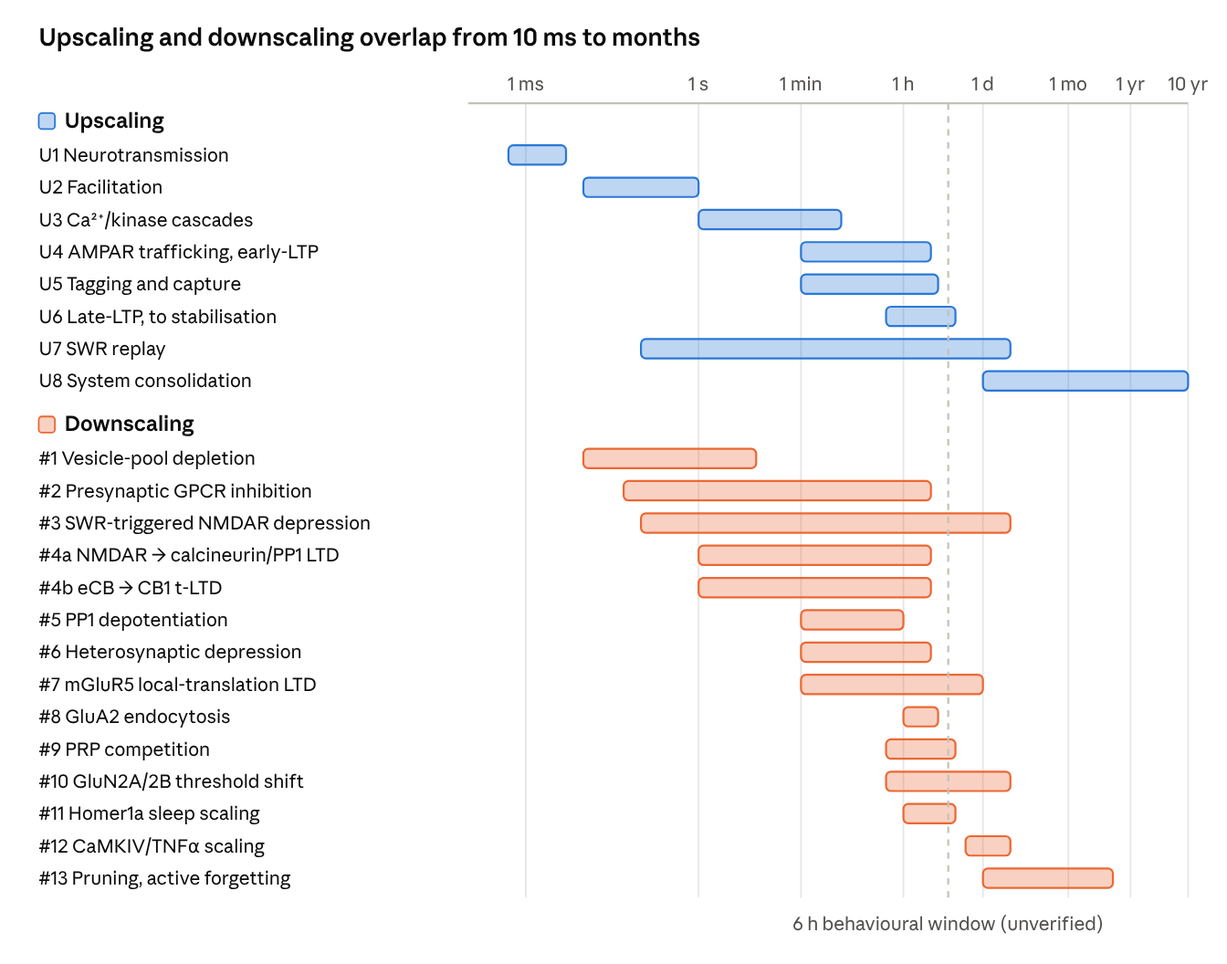
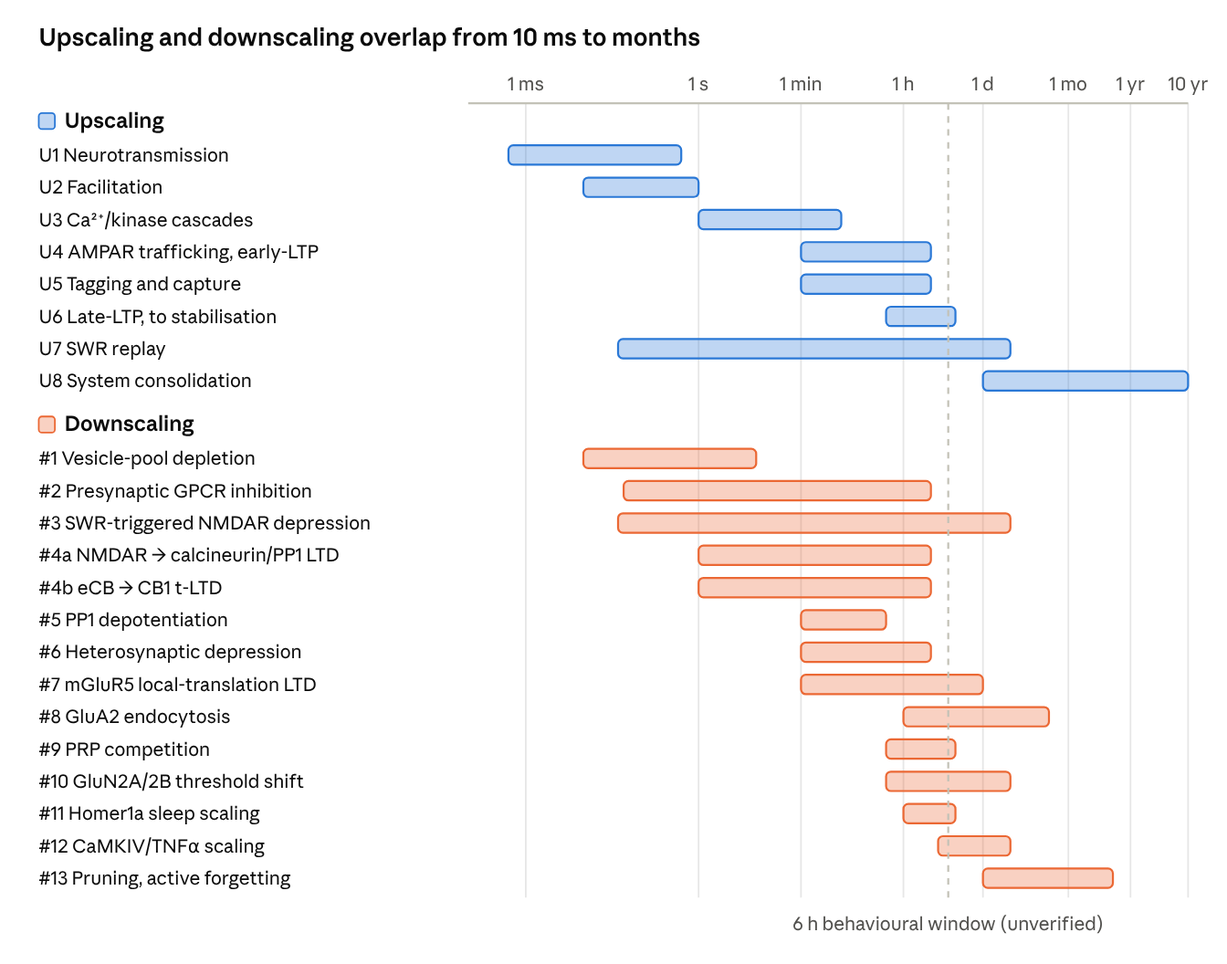
Docs: correct plasticity overview against sources, move questions to own file

diff --git a/docs/plasticity_up_down_model_2026-11-06.md b/docs/plasticity_up_down_model_2026-11-06.md
@@ -8,7 +8,7 @@ In this model a synapse changes at three nested levels, and upscaling and downsc
 
 - **Release (ms to s).** Each spike releases a fraction of the available resources. Facilitation raises that fraction; vesicle depletion and presynaptic inhibition lower it. The stored weight does not change.
 - **Tag (minutes to hours).** Coincident activity sets a local tag, graded by NMDA-receptor calcium signalling in the dendritic segment. The tag decays unless it is captured.
-- **Stored weight (hours and longer).** Capture needs both a tag and plasticity-related proteins (PRPs). Captured weight stops decaying, and slower processes can later scale it down or remove it.
+- **Stored weight (hours and longer).** Capture needs both a tag and plasticity-related proteins (PRPs). In the model, captured weight no longer decays with the tag, and slower processes can later scale it down or remove it.
 
 The hypothesis is that weakening also selects: what is captured and replayed is kept, and the rest fades or is depressed. Tag and capture are the candidate synaptic correlate of cellular consolidation, not an established identity.
 
@@ -73,7 +73,7 @@ Bars are order-of-magnitude summaries of the two source documents, not fitted va
 
 **Two meanings of "consolidation".** This document always says which one it means.
 
-- **Cellular consolidation:** for about 6 h after learning, a memory can be removed by blocking protein synthesis; after that it cannot. It happens locally in each region that stores the memory. The 6 h figure is behavioural, from a personal communication (Edu, a hippocampal neuroscientist), and is not yet checked against primary literature.
+- **Cellular consolidation:** for hours after learning, blocking protein or mRNA synthesis can prevent long-term memory. It happens locally in each region that stores the memory. Our 6 h figure comes from a personal communication (Edu, a hippocampal neuroscientist). Published rodent studies show discrete sensitive periods rather than one continuous window: around training and again about 3–6 h later (Igaz 2002), with a pattern that depends on training strength (Bourtchouladze 1998). A further phase at 12 h supports persistence (Bekinschtein 2007), and reactivated memories can become labile again (Nader 2000).
 - **System consolidation:** over days to weeks in rodents and longer in humans, a memory stops depending on the hippocampus. This shows loss of dependence, not that the trace has left the hippocampus.
 
 Late-LTP has two separate times: about 4–8 h until it stabilises, then days or longer of persistence. The slice late-LTP window and the 6 h behavioural window need not coincide, so every comparison must state which one it uses.
@@ -84,13 +84,13 @@ Upscaling is a chain of eight processes. Of these, only facilitation is implemen
 
 | # | Process | Timescale | What it does | Term in the model | Status |
 | --- | --- | --- | --- | --- | --- |
-| U1 | Neurotransmission | ms | Receptor gating carries each synaptic event | AMPA and GABA_A conductances | AMPA and GABA_A run; NMDA planned |
+| U1 | Neurotransmission | AMPA ms; NMDA hundreds of ms | Receptor gating carries each synaptic event | AMPA and GABA_A conductances | AMPA and GABA_A run; NMDA planned |
 | U2 | Facilitation (STP) | 10 ms–1 s | Each spike raises the release fraction u | u in `TMSyn` | Verified |
 | U3 | Ca²⁺/kinase cascades | 1 s–5 min | Decides whether a weight update happens | Lumped into g_Ca(V_seg); no explicit kinase | Planned, S4–S5 |
-| U4 | AMPAR trafficking, early-LTP | 1–30 min, decays over 1–3 h | Adds receptors, independent of protein synthesis, and fades | Carried by the tag T | Planned, S4 |
-| U5 | Synaptic tagging and capture | Set in 1–2 min; τ_tag about 1–4 h | A local tag is captured if PRPs arrive before it decays | T, P, h(P) in `SegTag` | Planned, S4 |
+| U4 | AMPAR trafficking, early-LTP | 1–30 min, decays over 1–3 h | Adds receptors, independent of protein synthesis, and fades | Carried by the tag T in the plan; see limits | Planned, S4 |
+| U5 | Synaptic tagging and capture | Set during induction; tag lasts under 3 h | A local tag is captured if PRPs arrive before it decays | T, P, h(P) in `SegTag` | Planned, S4 |
 | U6 | Transcription, late-LTP | Onset 30–60 min; stable by 4–8 h | The potentiated state stops decaying | w_cap | Planned, S4 |
-| U7 | SWR replay | Ripple 100–300 ms; recurs over hours to days | Repeated events drive capture | Imposed sharp-wave-like input, not emergent | Planned, S4 |
+| U7 | SWR replay | Ripple about 40–100 ms; recurs over hours to days | Repeated events drive capture | Imposed sharp-wave-like input, not emergent | Planned, S4 |
 | U8 | System consolidation | Days to years | Memory stops depending on the hippocampus | None | Out of scope |
 
 **Release level (U2).** At spike n, with u the utilisation and x the available resources:
@@ -131,17 +131,17 @@ Rules such as STDP, BCM or firing-rate homeostasis are a separate level: they sa
 | --- | --- | --- | --- | --- | --- |
 | #1 Vesicle-pool depletion (pre) | 10 ms–10 s | Spike and VGCC Ca²⁺ → readily releasable pool depleted | Frequency-dependent depression | x in `TMSyn` | Verified, in circuit |
 | #2 Presynaptic GPCR inhibition (pre) | 50 ms–min; tonic over hours | A1R, GABA_B, group II/III mGluR → lower P_r | Tonic and neuromodulatory gain | U_eff in `TMSynPI` | A1R verified, not in circuit |
-| #3 SWR-triggered NMDAR depression (post) | Ripple 100 ms; effect lasts hours | NMDAR during SWR → AMPAR weakening (effector unresolved) | Offline depression | Stored weight of non-replayed inputs | Candidate |
+| #3 SWR-triggered NMDAR depression (post) | Ripple about 40–100 ms; effect lasts hours | NMDAR during SWR → AMPAR weakening (effector unresolved) | Offline depression | Stored weight of non-replayed inputs | Candidate |
 | #4a NMDAR → calcineurin/PP1 LTD (post) | Induction s–min; expression hours | Moderate NMDAR Ca²⁺ → GluA1-S845 dephosphorylation, AMPAR endocytosis | Rate-dependent LTD | Low-Ca branch of g_Ca | Candidate |
 | #4b Endocannabinoid → CB1 t-LTD (pre, induced post) | Induction s–min; expression hours | Post mGluR and Ca²⁺ → eCB; pre CB1 and NMDAR → lower P_r | STDP depression | Reduction of U | Open: see limits |
-| #5 PP1 depotentiation (post) | Window 1 min–1 h | LFS, NMDAR Ca²⁺ and A1R → PP1 reverses phosphorylation | Reversal of recent LTP | Active reset of T | Candidate |
+| #5 PP1 depotentiation (post) | Minutes to tens of minutes, by protocol | LFS, NMDAR Ca²⁺ and A1R → PP1 reverses phosphorylation | Reversal of recent LTP | Active reset of T | Candidate |
 | #6 IP3R/calcineurin heterosynaptic depression (post, unstimulated) | Min–hours | Neighbour potentiation, group I mGluR, IP3R Ca²⁺ → inactive spines shrink | Heterosynaptic normalisation | Conservation per segment | Candidate |
 | #7 mGluR5 → local-translation LTD (post) | Min–1 day | Group I mGluR → Arc, STEP, MAP1B translation, AMPAR endocytosis | Protein-synthesis-dependent LTD | Draws on the PRP machinery | Deferred |
-| #8 Constitutive GluA2 endocytosis (post) | τ about 1–4 h | No sensor: absence of capture → inserted AMPARs removed | Decay of unconsolidated LTP | τ_tag | Planned, S4 |
-| #9 PRP competition (post, cell-wide) | 30 min–8 h | No sensor: finite pool, synthesis against degradation | Competition between inputs | Shared capture resource | Not in the equations yet |
+| #8 Constitutive GluA2 endocytosis (post) | Early-LTP under 3 h; also erodes established memory over weeks | No sensor: absence of capture → inserted AMPARs removed | Decay of unconsolidated LTP | τ_tag | Planned, S4 |
+| #9 PRP competition (post; extent of the pool debated) | 30 min–8 h | No sensor: finite pool, synthesis against degradation | Competition between inputs | Shared capture resource | Not in the equations yet |
 | #10 GluN2A/2B threshold shift (post) | 30 min–days | Activity history → subunit ratio changes | BCM sliding threshold | Moves θ_p of g_Ca | Candidate |
 | #11 Homer1a–mGluR5 sleep scaling (post) | Hours, each sleep cycle | Sleep state → Homer1a → GluA1 dephosphorylation, AMPAR removal | SHY | Global step between replay epochs | Deferred |
-| #12 CaMKIV/TNFα synaptic scaling (post; also P_r) | 12 h–days | Somatic Ca²⁺, glial TNFα → multiplicative AMPAR change | Firing-rate homeostasis | Multiplicative factor on weights | Candidate, needs stated compression |
+| #12 CaMKIV/TNFα synaptic scaling (post; also P_r) | Hours to days | Somatic Ca²⁺, glial TNFα → multiplicative AMPAR change | Firing-rate homeostasis | Multiplicative factor on weights | Candidate, needs stated compression |
 | #13 Complement pruning, Rac1/cofilin (whole synapse) | Days–months | C1q/C3 at weak synapses → microglial removal; actin disassembly | Structural forgetting | Removal of uncaptured traces | Deferred |
 
 "Candidate" means proposed for after S4–S6, in this order: #8 and #5, #4a and #10, #6, #3, #12. Nothing in this group is built yet.
@@ -186,13 +186,13 @@ The terms are facilitation, depletion, phasic A1R and tonic A1R. On the three fa
 
 **5. Calcium could set the sign.** With two thresholds, θ_d < Ca < θ_p gives depression (#4a) and Ca > θ_p gives a tag. Recent activity moves θ_p (#10), so history changes the sign of the next change. The current plan has one sigmoid; two thresholds are a candidate extension.
 
-**6. A tag has three possible fates.** It is captured, it decays passively (#8), or low-frequency stimulation resets it within about 10–60 min (#5). A reset tag can no longer capture PRPs, and stabilised late-LTP no longer reverses.
+**6. A tag has three possible fates.** It is captured, it decays passively through AMPAR endocytosis (#8; Dong 2015), or low-frequency stimulation resets it soon after induction (#5). Reported windows run from 3 min or less (Huang 1999) to at least 20 min (Fujii 1991), depending on protocol and preparation. A reset tag can no longer capture PRPs, and stabilised late-LTP no longer reverses.
 
-**7. The PRP pool links synapses across the cell.** A strong input can supply PRPs for a weak input's tag, which is the Frey–Morris design. With limited synthesis, inputs compete (#9), and protein-synthesis-dependent LTD (#7) draws on the same machinery.
+**7. The PRP pool links nearby synapses.** A strong input can supply PRPs for a weak input's tag, which is the Frey–Morris design. The original hypothesis made the pool cell-wide, but later work confines tagging and capture to dendritic compartments or branches (Sajikumar 2007, 2011; Govindarajan 2011). With limited synthesis, inputs compete (#9), and protein-synthesis-dependent LTD (#7) draws on the same machinery. Late-LTP also depends on protein degradation: blocking synthesis and degradation together restores it (Fonseca 2006).
 
-**8. Replay may select as well as store.** The same ripple could capture what is replayed and depress the rest (#3). Sleep (#11) and homeostatic scaling (#12) then lower total weight, and scaling preserves relative weights because it is multiplicative. Synapses that remain weak can be removed (#13). This sequence is a hypothesis.
+**8. Replay may select as well as store.** The same ripple could capture what is replayed and depress the rest (#3). Sleep (#11) and homeostatic scaling (#12) then lower total weight, and scaling preserves relative weights because it is multiplicative. Synapses that remain weak can be removed (#13). Each part has evidence: reactivated firing with ripple input induces LTP in rat slices (Sadowski 2016), and ripples trigger NMDAR-dependent depression in mice (Norimoto 2018). That replay content selects between them, and this whole sequence, is our hypothesis.
 
-**9. Stability needs fast compensation.** Zenke & Gerstner 2017 argue that compensation must be comparable in speed to Hebbian growth, so slow scaling alone cannot stabilise it. The fast candidates are #3, #6 and #10. Inside the STP stage, nothing limits potentiation except depletion and the inhibitory loop.
+**9. Stability needs fast compensation.** Zenke & Gerstner 2017 argue that compensation must be comparable in speed to Hebbian growth, so slow scaling alone cannot stabilise it. Heterosynaptic depression (#6) is the candidate they name. We add #3 and #10 as candidates, though #10 may be too slow. Inside the STP stage, nothing limits potentiation except depletion and the inhibitory loop.
 
 ## What is in NEURON today
 
@@ -223,22 +223,25 @@ The combined scheme makes predictions that can fail. Only the first has been tes
 
 t₅₀, the half-retention time, is compared with the 6 h behavioural window, not fitted to it. The target is a whole-animal measure and the model is one CA1 synapse, so agreement would show consistency, not mechanism.
 
-## Limits and open points
+## Limits and known gaps
 
-The scheme is a hypothesis built largely from secondary and partly unchecked sources, and its equations have known gaps. These are the points where expert input would change the design.
+The scheme is a hypothesis built largely from secondary and partly unchecked sources, and its equations have known gaps. The main known gaps are listed here.
 
-1. **Segment signal.** V_seg is an abstract leaky integral of synaptic input. In a biophysical cell the local membrane voltage already exists. Should the tag read local voltage and NMDAR calcium directly instead?
-2. **Adult t-LTD.** The plan has a ±20 ms STDP window with a depression lobe. Presynaptic t-LTD at mouse CA3→CA1 fades by about the fourth postnatal week, so an adult lobe is not established. If kept, it should reduce U, not the postsynaptic weight.
-3. **No upper bound.** Nothing in the planned equations saturates w_cap, so repeated events can raise it without limit. Which bound is biologically defensible?
-4. **PRP pool.** The model calls the pool cell-wide, but the plan builds one `SegTag` per tagged synapse group, and capture does not consume P. Competition (#9) therefore needs a shared pool with a consumption term.
-5. **Sign of the change.** One sigmoid can only set a tag. Depression needs the two-threshold form, and its thresholds have no CA1 values yet.
-6. **NMDAR timescale.** Our model table lists AMPA and NMDA gating together at 0.5–5 ms, yet credits slow NMDAR deactivation for the ±20 ms window. That range cannot describe NMDAR decay, so the table needs correcting from a primary source.
-7. **Bistratified target.** The plan places BiS input on SR and SO; the circuit currently places it on SR only.
+1. **Segment signal.** V_seg is an abstract leaky integral of synaptic input, although a biophysical cell already has local membrane voltage. The plan does not yet read voltage or NMDAR calcium directly.
+2. **Tag and early-LTP.** The plan carries early-LTP in T. Redondo & Morris 2011 report that the tagged state and LTP expression are dissociable, so they may need separate states.
+3. **One tag only.** Late-LTD is also tagged, and cross-tagging occurs (Sajikumar & Frey 2004). Tag molecules differ by process, with CaMKII for LTP and ERK1/2 for LTD in apical CA1 (Sajikumar 2007).
+4. **PRP trigger.** The plan increments P on somatic bursts, which has no source. Evidence points to strong synaptic input and D1/D5 dopamine signalling (Huang & Kandel 1995; Moncada & Viola 2007).
+5. **PRP pool.** The plan builds one `SegTag` per tagged synapse group, and capture does not consume P. Competition (#9) needs a pool shared within a compartment and a consumption term.
+6. **No upper bound.** Nothing in the planned equations saturates w_cap, so repeated events can raise it without limit. LTP saturation is experimentally real (Moser 1998).
+7. **Captured weight.** The model holds it stable, but GluA2 removal erodes established memories (Migues 2016), and maintenance needs recurring protein synthesis (Bekinschtein 2007).
+8. **Adult t-LTD.** Presynaptic t-LTD at mouse CA3→CA1 is lost in the fourth postnatal week (Pérez-Rodríguez 2019). Adult rat CA1 population data do show depression when post precedes pre by 20 ms (Pang 2019). The plan's ±20 ms depression lobe therefore has no settled adult mechanism. A presynaptic form would reduce U, not the postsynaptic weight.
+9. **Sign of the change.** One sigmoid can only set a tag. Depression needs the two-threshold form, and its thresholds have no CA1 values yet.
+10. **Bistratified target.** The plan places BiS input on SR and SO; the circuit currently places it on SR only.
 
 Other limits on the evidence:
 
 - **Unsourced values:** k_cap, n, τ_P, K, λ and τ_v have no source and will be swept.
-- **Mixed preparations:** cell targets are mouse and STP values are rat; two pathways use cortical values. Pathway #3 comes from mouse, #6's weight conservation from amygdala, and Rac1 forgetting (#13) from *Drosophila*.
+- **Mixed preparations:** cell targets are mouse and STP values are rat; two pathways use cortical values. Pathway #3 comes from mouse, #6's weight conservation from amygdala, Rac1 forgetting (#13) from *Drosophila*, and the GluN2A/2B data (#10) from rat visual cortex. Much LTD and t-LTD data come from juvenile animals.
 - **Timespans:** the spans of the downscaling pathways are order-of-magnitude summaries, not fitted values.
 - **Circuit size:** one PYR with contact-scaled projections cannot show population effects, ripple generation or replay ordering. Replay enters only as imposed input.
 - **Slow pathways:** those running over days need a stated compression factor in any short run, or they stay out.
@@ -247,7 +250,27 @@ Other limits on the evidence:
 
 This document combines `hippocampal_plasticity_model.md` and `hippocampal_downscaling_mechanisms.md`, with `docs/plan.md` and `docs/handoff.md`, from the repository [max-talanov/tinyHippo-bio-plasticity](https://github.com/max-talanov/tinyHippo-bio-plasticity). Numbers from simulations come from its `RESULTS.md`. Full references per pathway are in the downscaling document.
 
-**Details checked against PubMed, PMC or publisher records, not necessarily read in full:**
+On 6 November 2026 all 84 journal references behind this document resolved correctly in PubMed. We compared the main claims with the abstracts, not the full texts, so details inside papers remain unchecked. Ripple duration comes from a [secondary source citing Buzsáki 2015](https://elifesciences.org/reviewed-preprints/106201v1), not from that review itself.
+
+**Added during this check (PubMed abstracts):**
+
+- Bekinschtein et al. 2007, *Neuron* 53:261. [PMID 17224407](https://pubmed.ncbi.nlm.nih.gov/17224407/)
+- Bourtchouladze et al. 1998, *Learn Mem* 5:365. [PMID 10454361](https://pubmed.ncbi.nlm.nih.gov/10454361/)
+- Dong et al. 2015, *J Clin Invest* 125:234. [PMID 25437879](https://pubmed.ncbi.nlm.nih.gov/25437879/)
+- Govindarajan et al. 2011, *Neuron* 69:132. [PMID 21220104](https://pubmed.ncbi.nlm.nih.gov/21220104/)
+- Huang & Kandel 1995, *PNAS* 92:2446. [PMID 7708662](https://pubmed.ncbi.nlm.nih.gov/7708662/)
+- Igaz et al. 2002, *J Neurosci* 22:6781. [PMID 12151558](https://pubmed.ncbi.nlm.nih.gov/12151558/)
+- Lester et al. 1990, *Nature* 346:565. [PMID 1974037](https://pubmed.ncbi.nlm.nih.gov/1974037/)
+- Moncada & Viola 2007, *J Neurosci* 27:7476. [PMID 17626208](https://pubmed.ncbi.nlm.nih.gov/17626208/)
+- Moser et al. 1998, *Science* 281:2038. [PMID 9748165](https://pubmed.ncbi.nlm.nih.gov/9748165/)
+- Nader et al. 2000, *Nat Rev Neurosci* 1:216. [PMID 11257912](https://pubmed.ncbi.nlm.nih.gov/11257912/)
+- Pang et al. 2019, *PNAS* 116:5737. [PMID 30819889](https://pubmed.ncbi.nlm.nih.gov/30819889/)
+- Pérez-Rodríguez et al. 2019, *Cereb Cortex* 29:3266. [PMID 30169759](https://pubmed.ncbi.nlm.nih.gov/30169759/)
+- Sadowski et al. 2016, *Cell Rep* 14:1916. [PMID 26904941](https://pubmed.ncbi.nlm.nih.gov/26904941/)
+- Sajikumar et al. 2007, *J Neurosci* 27:5068. [PMID 17494693](https://pubmed.ncbi.nlm.nih.gov/17494693/)
+- Sajikumar et al. 2011, *PNAS* 108:2551. [PMID 21248226](https://pubmed.ncbi.nlm.nih.gov/21248226/)
+
+**Details checked against PubMed, PMC or publisher records, abstract level at most unless stated:**
 
 - Norimoto et al. 2018, *Science* 359:1524. [doi:10.1126/science.aao0702](https://doi.org/10.1126/science.aao0702) (#3)
 - Miyawaki & Diba 2016, *Curr Biol* 26:893 (#3)
@@ -274,4 +297,4 @@ This document combines `hippocampal_plasticity_model.md` and `hippocampal_downsc
 - Wierenga & Wadman 2003, read only through the Hippocampus Hub data page: SC STP.
 - Mitchell, Lupica & Dunwiddie 1993, *J Neurosci* 13:3439: A1R inhibition.
 
-**Standard citations not yet checked by us:** Frey & Morris 1997; Redondo & Morris 2011; Jahr & Stevens 1990; Lisman 1989; Shouval, Bear & Cooper 2002; Clopath et al. 2010; Clopath et al. 2008; Barrett et al. 2009; Tsodyks & Markram 1997; Zenke & Gerstner 2017. Any parameter taken from these must first be read from the source and recorded with its conditions.
+**Other standard citations, resolved in PubMed, abstract level at most:** Frey & Morris 1997; Redondo & Morris 2011; Jahr & Stevens 1990; Lisman 1989; Shouval, Bear & Cooper 2002; Clopath et al. 2010; Clopath et al. 2008; Barrett et al. 2009; Tsodyks & Markram 1997; Zenke & Gerstner 2017. Any parameter taken from these must first be read from the source and recorded with its conditions.

diff --git a/docs/questions_for_michele_migliore.md b/docs/questions_for_michele_migliore.md
@@ -1,0 +1,28 @@
+# Questions for Michele Migliore
+
+Nov 6, 2026 · Max Talanov
+
+These are the decisions where an expert view would change what we do next, roughly in order of impact within each group. Background is in the [status report](report_2026-11-06.md) and the [plasticity overview](plasticity_up_down_model_2026-11-06.md).
+
+## Cells and circuit
+
+1. **Pyramidal cell model.** Our Bezaire `poolosyncell` refit reaches the target Rin only by cutting HCN to 10%. Would you recommend one of the data-driven CA1 pyramidal models of Migliore et al. 2018 (*PLoS Comput Biol* 14:e1006423) instead, given that dendritic Ih and A-type K shape EPSP summation and the tag depends on segment voltage? If we keep this cell, is a 10% Ih acceptable?
+2. **Synapse placement.** How should 900 SC synapses be distributed over SR and SO: uniformly by membrane area, by path distance, or following a measured density? For inhibition, we use PV on the soma, BiS on SR and O-LM on SLM. Should BiS also cover SO, as our plan first specified? Is a single site per projection acceptable for a first pass?
+3. **SC synaptic strength and AMPA/NMDA.** Which CA1 values would you use for SC unitary conductance, AMPA and NMDA kinetics at 34 °C, and the AMPA:NMDA ratio along the dendrite? Our 0.6 nS is borrowed from PC → PC.
+4. **SC → interneuron STP.** We use a pooled fit quoted from Wierenga & Wadman 2003. That abstract reports similar SC dynamics in basket and bistratified cells, which supports pooling. It also reports plateaus near 150% of the first response, while the quoted parameters give ×1.02 at 20 Hz. Do you know better type-specific SC → PV and SC → bistratified data (U, τ_rec, τ_fac), ideally at known temperature and \[Ca²⁺\]ₒ?
+5. **PYR → interneuron STP.** Our PYR → PV and BiS parameters are strongly depressing (net ×0.36 at 20 Hz). Losonczy et al. 2002 report depressing or mixed EPSCs in basket cells and mixed classes in oriens-bistratified cells. Wierenga & Wadman 2003 report alveus-input plateaus close to the first response up to 40 Hz. Which data would you trust for these pathways?
+6. **O-LM cell.** Our O-LM port misses Rin by 6.6 SD and rheobase by 8 SD. Is there a better-constrained O-LM model? Our STP values for PYR → O-LM and O-LM → PYR are cortical. The facilitating class of PYR → O-LM has CA1 support (Losonczy 2002; Wierenga & Wadman 2003), but do you know usable CA1 parameters?
+7. **Circuit size.** Is one PYR with contact-scaled projections defensible for an E/I readout during a volley, or should we move to 5–10 PYR before drawing any circuit conclusion?
+8. **Experimental conditions.** The synapses are rat data at 2–2.5 mM Ca (or unstated); the cells are fitted to mouse targets at 34 °C. How would you reconcile them: a \[Ca²⁺\]ₒ scaling of U, and temperature factors on τ_rec?
+9. **Validation target.** Which experimental readout would you trust most to validate the circuit with STP: for example, PYR spike probability and latency during theta-burst SC stimulation with and without GABA_A block?
+
+## Plasticity model
+
+10. **Segment signal.** V_seg is an abstract leaky integral of synaptic input. In a biophysical cell, should the tag read local membrane voltage and NMDAR calcium directly instead?
+11. **Tag and early-LTP.** Our plan carries early-LTP in the tag T. Redondo & Morris 2011 report that the tagged state and LTP expression are dissociable. Should they be separate state variables?
+12. **PRP trigger.** Our plan increments the PRP pool on somatic bursts, which has no source. Evidence points to strong synaptic input and D1/D5 signalling (Huang & Kandel 1995; Moncada & Viola 2007). With no dopaminergic input in the circuit, what is the most defensible trigger?
+13. **Extent of the PRP pool.** The original hypothesis is cell-wide, but later work confines tagging and capture to dendritic compartments or branches (Sajikumar 2007, 2011; Govindarajan 2011). At what spatial scale would you model the pool, and should capture consume it so that inputs compete?
+14. **Upper bound.** Nothing in our equations saturates the captured weight. Which bound is biologically defensible: a hard limit, a soft limit, or a limit set by PRP or synaptic resources?
+15. **Sign of the change.** Would you model depression with two calcium thresholds in one variable, or with a separate LTD tag? Late-LTD is also tagged, with different tag molecules in apical CA1 (Sajikumar & Frey 2004; Sajikumar 2007). Which CA1 threshold values, if any, can be trusted?
+16. **Adult STDP.** Presynaptic t-LTD at mouse CA3 → CA1 is lost in the fourth postnatal week (Pérez-Rodríguez 2019), yet adult rat CA1 population data show depression when post precedes pre by 20 ms (Pang 2019). Should an adult model include a ±20 ms depression lobe, and through which mechanism?
+17. **Timing target for capture.** We planned to compare the half-retention time with a 6 h behavioural window. Published studies show discrete sensitive periods, around training and about 3–6 h later (Igaz 2002; Bourtchouladze 1998), plus a phase at 12 h (Bekinschtein 2007). Is a slice late-LTP time course a better target for a single-synapse model?

diff --git a/docs/report_2026-11-06.md b/docs/report_2026-11-06.md
@@ -1,4 +1,4 @@
-# CA1 Tier-B STP testbed: model, status and open questions
+# CA1 Tier-B STP testbed: model, status and known gaps
 
 Nov 5, 2026 · Max Talanov
 
@@ -64,7 +64,7 @@ Where it stands on 5 November 2026:
 - **Calibrated, but not yet run in the circuit:** the four cells, ported from Bezaire et al. 2016 at 34 °C and refitted where needed.
 - **Still open:** wiring the calibrated cells into the circuit (placing synapses on the dendrites), NMDA, the circuit E/I experiments, and tag and capture.
 
-All synaptic parameters come from secondary sources (Ecker et al. 2019 Table 1, and a Hippocampus Hub compilation of Wierenga & Wadman 2003). This review is the main reason for the meeting: we would like your view on the cell models, the synaptic parameters and the open choices in the section "Questions for Michele Migliore".
+All synaptic parameters come from secondary sources (Ecker et al. 2019 Table 1, and a Hippocampus Hub compilation of Wierenga & Wadman 2003). This review is the main reason for the meeting: we would like your view on the cell models, the synaptic parameters and the open choices, which are listed in the separate [questions for Michele Migliore](questions_for_michele_migliore.md).
 
 ## Goal and approach
 
@@ -307,19 +307,6 @@ The largest gaps are the missing NMDA receptors, the unplaced synapses on the ca
 - **Mixed species:** the cells are fitted to mouse targets, the synapses come from rat.
 - **PYR HCN is cut to 10% of published** to reach the target Rin. O-LM passive properties miss by up to 8 SD.
 - **GABA_B presynaptic kinetics are unverified:** Molyneaux & Hasselmo 2002 could not be accessed.
-
-## Questions for Michele Migliore
-
-These are the decisions where an expert view would change what we do next, roughly in order of impact.
-
-1. **Pyramidal cell model.** Our Bezaire `poolosyncell` refit reaches the target Rin only by cutting HCN to 10%. Would you recommend one of the data-driven CA1 pyramidal models of Migliore et al. 2018 instead (we cite it from memory; please correct the reference), given that dendritic Ih and A-type K shape EPSP summation and the tag depends on segment voltage? If we keep this cell, is a 10% Ih acceptable?
-2. **Synapse placement.** How should 900 SC synapses be distributed over SR and SO: uniformly by membrane area, by path distance, or following a measured density? For inhibition: PV on the soma, BiS on SR (should it also cover SO?) and O-LM on SLM. Is a single site per projection acceptable for a first pass?
-3. **SC synaptic strength and AMPA/NMDA.** Which CA1 values would you use for SC unitary conductance, AMPA and NMDA kinetics at 34 °C, and the AMPA:NMDA ratio along the dendrite? Our 0.6 nS is borrowed from PC → PC.
-4. **SC → interneuron STP.** Do you know type-specific SC → PV and SC → bistratified STP data (U, τ_rec, τ_fac), ideally at known temperature and \[Ca²⁺\]ₒ? We use a pooled interneuron fit.
-5. **O-LM cell.** Our O-LM port misses Rin by 6.6 SD and rheobase by 8 SD. Is there a better-constrained O-LM model, and are the CA1 PYR → O-LM and O-LM → PYR STP values (ours are cortical) available?
-6. **Circuit size.** Is one PYR with contact-scaled projections defensible for an E/I readout during a volley, or should we move to 5–10 PYR before drawing any circuit conclusion?
-7. **Experimental conditions.** The synapses are rat data at 2–2.5 mM Ca (or unstated); the cells are fitted to mouse targets at 34 °C. How would you reconcile them: a \[Ca²⁺\]ₒ scaling of U, and temperature factors on τ_rec?
-8. **Validation target.** Which experimental readout would you trust most to validate the circuit with STP: for example, PYR spike probability and latency during theta-burst SC stimulation with and without GABA_A block?
 
 ## Roadmap
 
